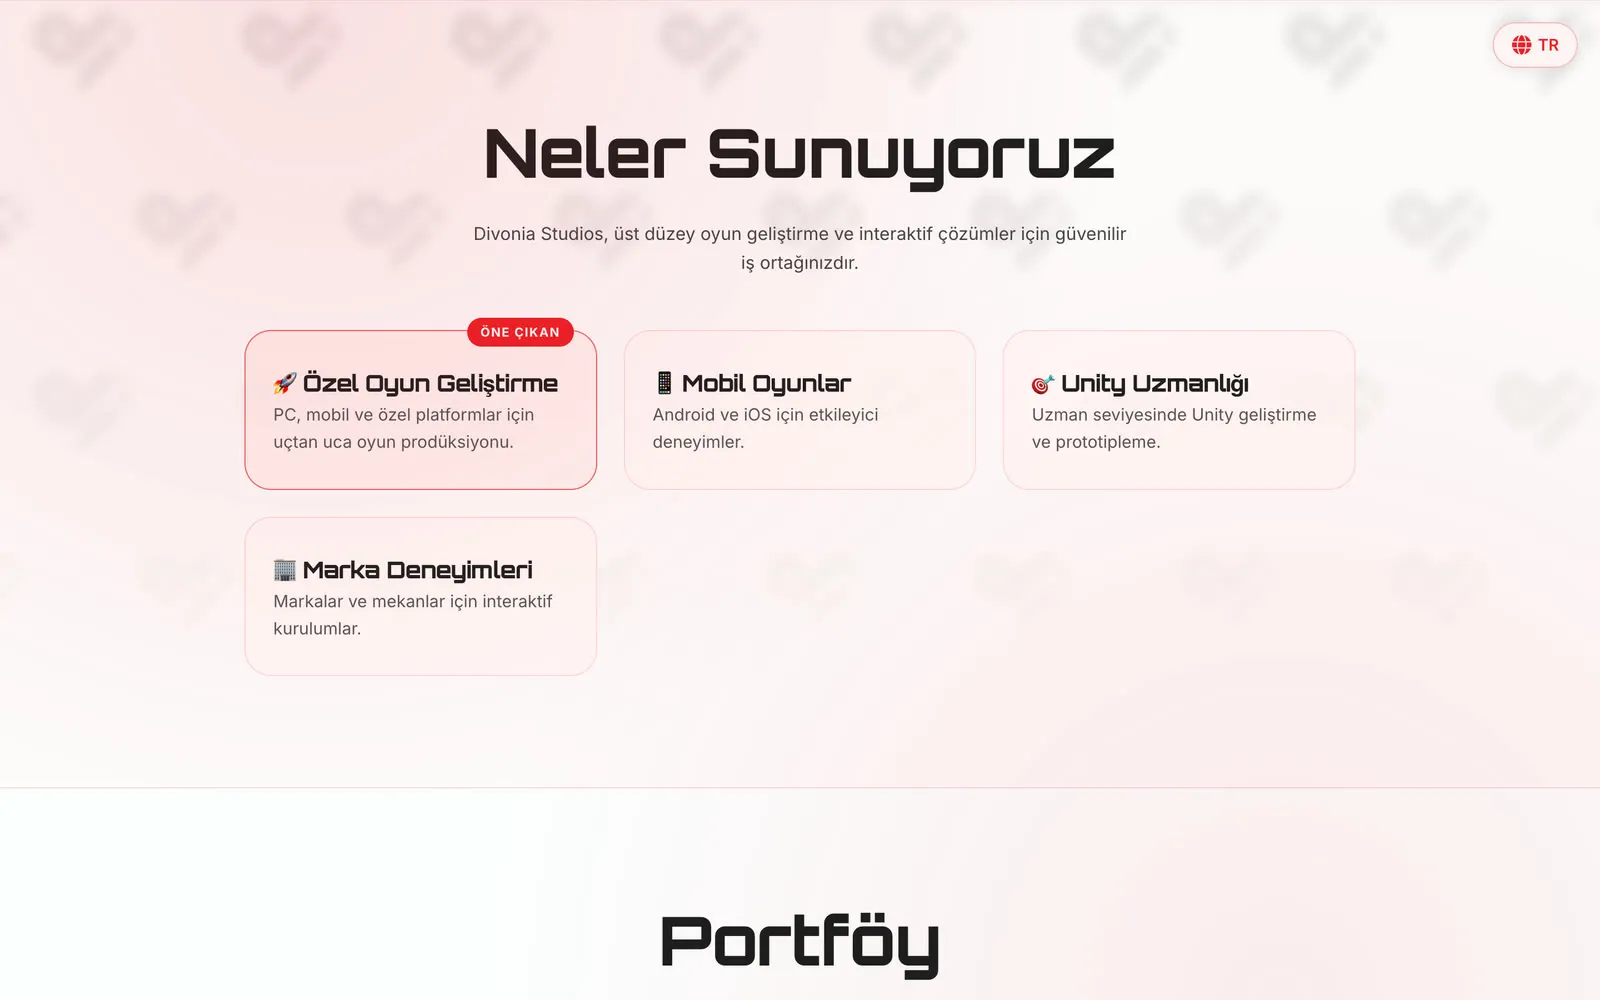
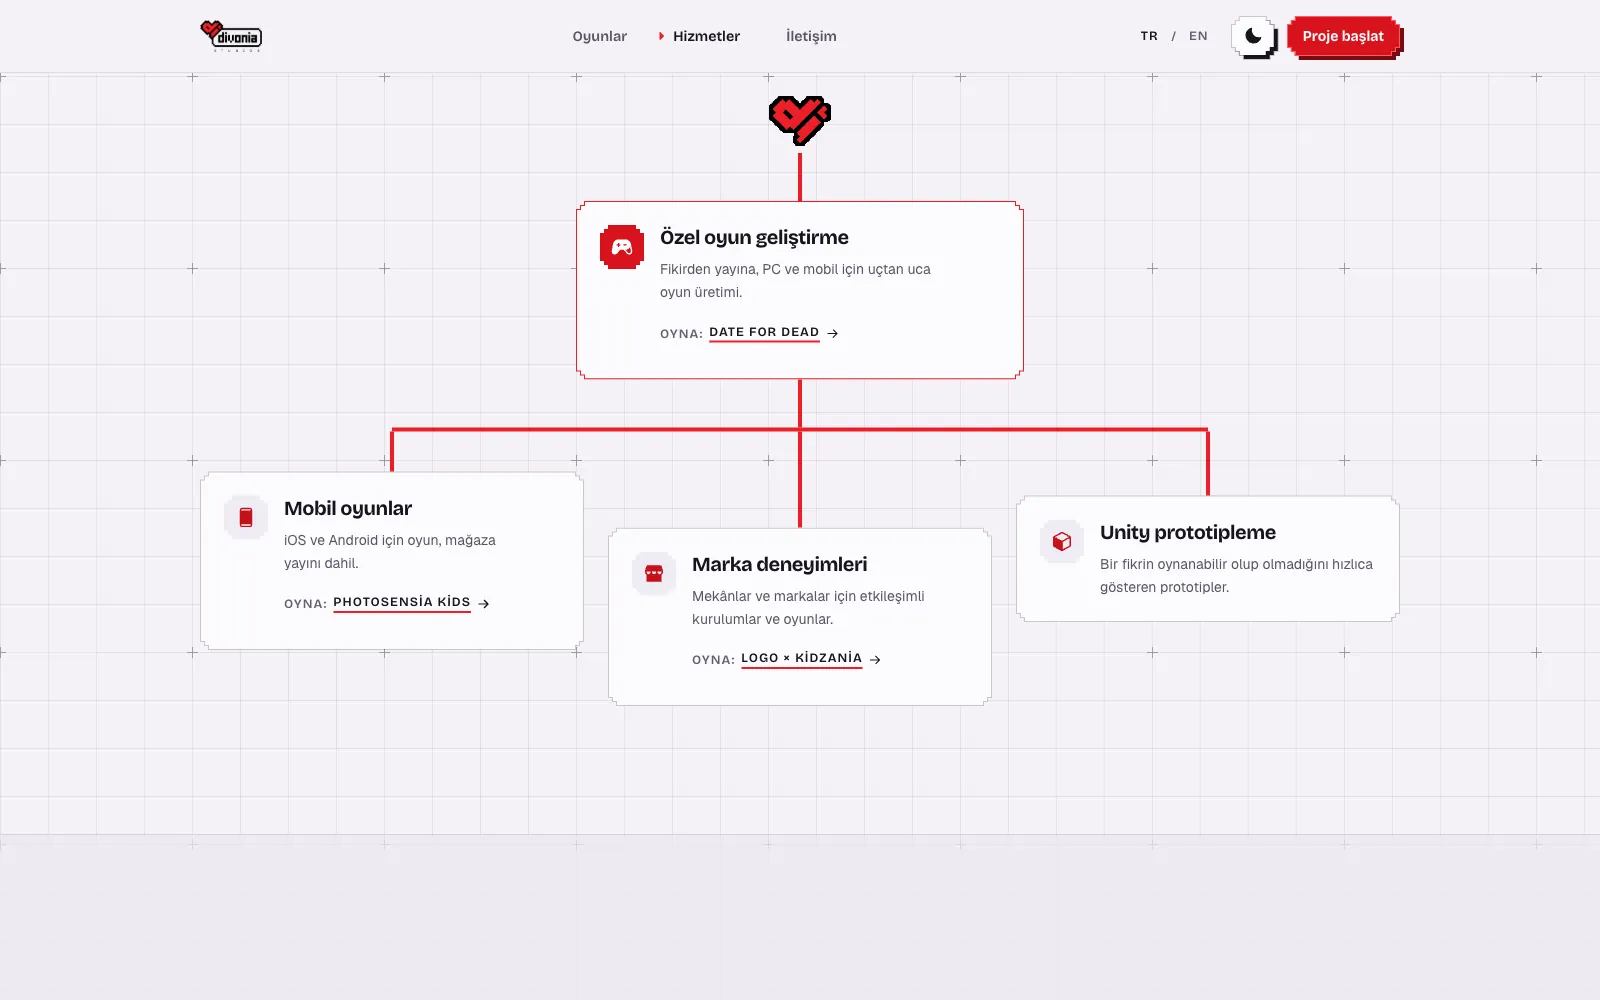
Divonia'yı yeni siteyle güncelle
Ekran görüntüleri yeniden çekilen divoniastudios.com'dan alındı
(voksel kalp, eşleşme destesi, yetenek ağacı, Date For Dead sayfası);
proje metni ve künyesi yeni siteye göre yazıldı.

diff --git a/src/data/projects.ts b/src/data/projects.ts
@@ -375,26 +375,30 @@ export const projects: Project[] = [
     image: "icon-divonia.webp",
     iconStyle: true,
     summary: {
-      tr: "Bir oyun stüdyosu için kurumsal web sitesi: stüdyonun işlerini ve kimliğini yansıtan sade, hızlı bir tanıtım sitesi.",
-      en: "A corporate website for a game studio: a clean, fast presence that reflects the studio's work and identity.",
+      tr: "Bağımsız bir oyun stüdyosunun web sitesi: logodaki piksel kalpten üretilen 3B voksel sahne, oynanabilir kart destesi ve oyun diliyle yazılmış sayfalar.",
+      en: "Website for an independent game studio: a 3D voxel scene built from the logo's pixel heart, a playable card deck and pages written like a game.",
     },
     detail: {
       tr: [
-        "Bir oyun stüdyosu için kurumsal web sitesi: stüdyonun işlerini ve kimliğini yansıtan sade, hızlı bir tanıtım sitesi.",
-        "Site stüdyonun yayınladığı oyunları ve iş birliklerini tek sayfada topluyor; ziyaretçi birkaç saniyede ne yaptıklarını görüyor.",
+        "Bağımsız bir oyun stüdyosunun web sitesi: logodaki piksel kalpten üretilen 3B voksel sahne, oynanabilir kart destesi ve oyun diliyle yazılmış sayfalar.",
+        "Ana sayfada kalp, kaydırdıkça seviye seviye dağılıp yeniden toplanıyor. Hemen altındaki Date For Dead bölümünde, oyunun kendisi gibi sağa kaydırılan bir eşleşme destesi var; hizmetler bir yetenek ağacı olarak, 404 sayfası da bir GAME OVER ekranı olarak tasarlandı.",
+        "Site Türkçe ve İngilizce, gece ve gündüz modlu. Statik olarak üretiliyor; sunucu gerektirmeden hızlı açılıyor.",
       ],
       en: [
-        "A corporate website for a game studio: a clean, fast presence that reflects the studio's work and identity.",
-        "The site gathers the studio's released games and collaborations on a single page, so a visitor sees what they do within seconds.",
+        "Website for an independent game studio: a 3D voxel scene built from the logo's pixel heart, a playable card deck and pages written like a game.",
+        "On the home page the heart breaks apart and reassembles level by level as you scroll. Just below, the Date For Dead section has a swipe-right match deck like the game itself; services are laid out as a skill tree and the 404 page is a GAME OVER screen.",
+        "The site is in Turkish and English with light and dark modes. It is generated statically, so it loads fast without a server.",
       ],
     },
     facts: {
       tr: [
-        { k: "Tür", v: "Kurumsal site" },
+        { k: "Tür", v: "Stüdyo sitesi" },
+        { k: "Dil", v: "Türkçe, İngilizce" },
         { k: "Yıl", v: "2026" },
       ],
       en: [
-        { k: "Type", v: "Corporate site" },
+        { k: "Type", v: "Studio website" },
+        { k: "Languages", v: "Turkish, English" },
         { k: "Year", v: "2026" },
       ],
     },
